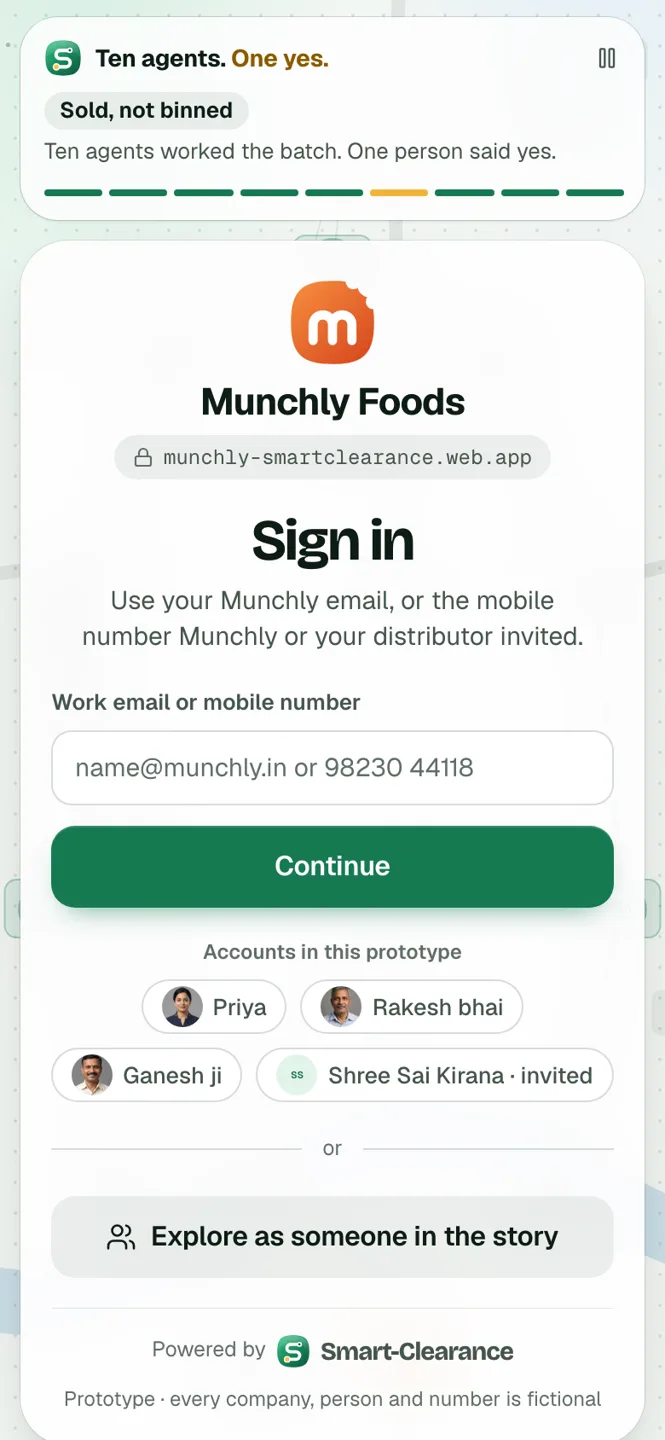
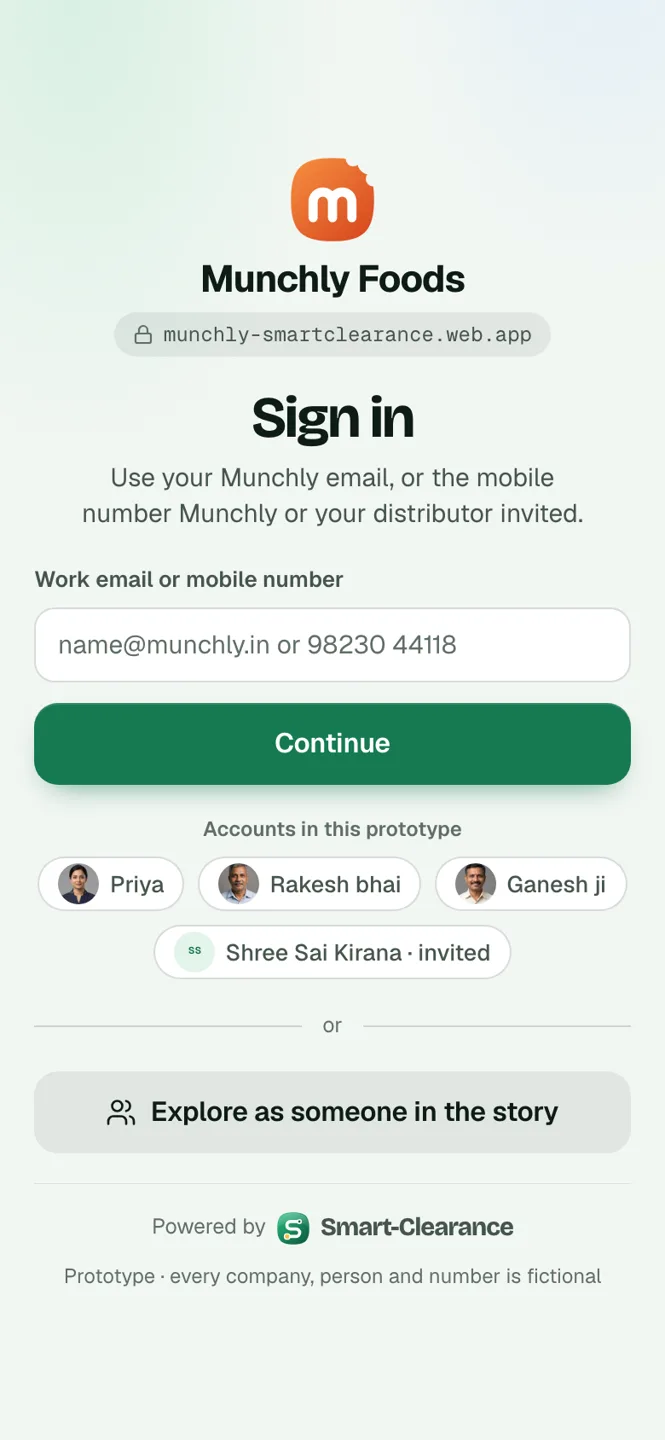
SC-198: the map ported to core's AgentStage; a phone held upright shows the form alone

diff --git a/frontend/core/src/lib/components/agents/mesh.ts b/frontend/core/src/lib/components/agents/mesh.ts
@@ -52,6 +52,10 @@ export type Field = {
 	pointer: { x: number; y: number } | null;
 	stepAt: number;
 	resetAt: number;
+	/** where the stage's orbit sits in the canvas, so the ground keeps the stage's words clear (SC-198) */
+	off?: { x: number; y: number };
+	ground?: HTMLCanvasElement;
+	groundKey?: string;
 };
 
 export const AG_STOPS: Stop[] = [
@@ -230,13 +234,143 @@ export function agThreads(stars: Star[]): Thread[] {
 }
 // the field's inks, as rgb, by day and by night (the agents' green and the yes's amber validated on the sign-in's ground)
 const AG_INK = {
-	light: { ink: '13, 28, 21', lit: '22, 122, 82', amber: '211, 154, 18', hole: '#f2f6f3' },
-	dark: { ink: '214, 255, 232', lit: '60, 203, 138', amber: '247, 192, 74', hole: '#0b110e' }
+	light: {
+		ink: '13, 28, 21',
+		lit: '22, 122, 82',
+		amber: '211, 154, 18',
+		hole: '#f2f6f3',
+		water: 'rgba(112, 166, 199, 0.3)',
+		block: 0.06,
+		post: 0.085,
+		dot: 0.11,
+		window: 0
+	},
+	dark: {
+		ink: '214, 255, 232',
+		lit: '60, 203, 138',
+		amber: '247, 192, 74',
+		hole: '#0b110e',
+		water: 'rgba(64, 92, 196, 0.32)',
+		block: 0.06,
+		post: 0.09,
+		dot: 0.09,
+		window: 0.15
+	}
 };
+type Ink = (typeof AG_INK)['light'];
 const seeded = (seed: number) => () => {
 	seed = (seed * 1664525 + 1013904223) % 4294967296;
 	return seed / 4294967296;
 };
+// the ground under the field (SC-198, the map under the agents): the guided demo's plate, a dotted grid, the town's
+// blocks in clusters, two roads and the river, seeded so every visit draws the same; drawn once a size and a theme
+const AG_DOT = 18;
+type Box = { x0: number; y0: number; x1: number; y1: number };
+function agRiver(w: number, h: number, band: boolean) {
+	const y = band ? h * 0.9 : h * 0.86,
+		pts: { x: number; y: number }[] = [];
+	for (let i = 0; i <= 48; i++) {
+		const u = i / 48;
+		pts.push({
+			x: -40 + u * (w + 80),
+			y: y + Math.sin(u * Math.PI * 2.2 + 0.6) * h * (band ? 0.03 : 0.05) - u * h * 0.04
+		});
+	}
+	return pts;
+}
+export function agGround(w: number, h: number, band: boolean, dark: boolean, stars: Star[], clear: Box[]) {
+	const I = AG_INK[dark ? 'dark' : 'light'],
+		dpr = Math.min(window.devicePixelRatio || 1, 2),
+		c = document.createElement('canvas');
+	c.width = Math.round(w * dpr);
+	c.height = Math.round(h * dpr);
+	const g = c.getContext('2d');
+	if (!g) return c;
+	g.setTransform(dpr, 0, 0, dpr, 0, 0);
+	g.fillStyle = `rgba(${I.ink}, ${I.dot})`;
+	for (let x = AG_DOT / 2; x < w; x += AG_DOT)
+		for (let y = AG_DOT / 2; y < h; y += AG_DOT) {
+			g.beginPath();
+			g.arc(x, y, 1, 0, Math.PI * 2);
+			g.fill();
+		}
+	const river = agRiver(w, h, band),
+		rw = band ? 22 : Math.max(26, Math.min(44, h * 0.045)),
+		bw = AG_DOT * 2 - 4,
+		bh = AG_DOT * 1.5;
+	const nearRiver = (x: number, y: number, pad: number) =>
+		river.some((p) => Math.hypot(p.x - x, p.y - y) < rw / 2 + pad);
+	const nearPost = (x: number, y: number) => stars.some((s) => Math.abs(s.x - x) < 52 && Math.abs(s.y - y) < 44);
+	// the stage's words keep a clear ground: no block under the head or the foot
+	const underWords = (x: number, y: number) =>
+		clear.some((r) => x + bw / 2 > r.x0 && x - bw / 2 < r.x1 && y + bh / 2 > r.y0 && y - bh / 2 < r.y1);
+	// the roads, under everything else: one across the town, one down between the stage and the card
+	g.lineCap = 'round';
+	g.strokeStyle = `rgba(${I.ink}, ${I.block * 1.3})`;
+	g.lineWidth = band ? 6 : 8;
+	g.beginPath();
+	g.moveTo(-10, h * 0.4);
+	g.bezierCurveTo(w * 0.35, h * 0.37, w * 0.65, h * 0.44, w + 10, h * 0.39);
+	g.moveTo(w * 0.6, -10);
+	g.bezierCurveTo(w * 0.58, h * 0.3, w * 0.63, h * 0.6, w * 0.6, h + 10);
+	g.stroke();
+	// the blocks: clusters of two or three a row, on the grid, kept off the river and the agents' posts
+	const rnd = seeded(198),
+		n = Math.max(6, Math.round((w * h) / (band ? 20000 : 34000)));
+	for (let i = 0; i < n; i++) {
+		const cx0 = Math.floor((rnd() * w) / AG_DOT) * AG_DOT + 4,
+			cy0 = Math.floor((rnd() * h) / AG_DOT) * AG_DOT + 4,
+			cols = 2 + Math.floor(rnd() * 2),
+			rows = 1 + Math.floor(rnd() * 2);
+		for (let a = 0; a < cols; a++)
+			for (let b = 0; b < rows; b++) {
+				if (rnd() < 0.2) continue;
+				const x = cx0 + a * (bw + 6),
+					y = cy0 + b * (bh + 6);
+				if (
+					nearRiver(x + bw / 2, y + bh / 2, 14) ||
+					nearPost(x + bw / 2, y + bh / 2) ||
+					underWords(x + bw / 2, y + bh / 2)
+				)
+					continue;
+				g.beginPath();
+				g.roundRect(x, y, bw, bh, 6);
+				// by night some blocks are lit windows
+				g.fillStyle = I.window && rnd() < 0.3 ? `rgba(${I.amber}, ${I.window})` : `rgba(${I.ink}, ${I.block})`;
+				g.fill();
+			}
+	}
+	g.strokeStyle = I.water;
+	g.lineWidth = rw;
+	g.lineJoin = 'round';
+	g.beginPath();
+	river.forEach((p, i) => (i ? g.lineTo(p.x, p.y) : g.moveTo(p.x, p.y)));
+	g.stroke();
+	return c;
+}
+// each agent's post: a block under its node, lit while it works, tinted once it has
+function agPosts(ctx: CanvasRenderingContext2D, f: Field, I: Ink) {
+	const pw = f.band ? 34 : 46,
+		ph = f.band ? 26 : 34;
+	f.stars.forEach((n) => {
+		const st = f.state(n.c),
+			col = n.c.human ? I.amber : I.lit;
+		ctx.beginPath();
+		ctx.roundRect(n.x - pw / 2, n.y - ph / 2, pw, ph, 7);
+		ctx.fillStyle =
+			st === 'now'
+				? `rgba(${col}, ${f.dark ? 0.3 : 0.24})`
+				: st === 'done'
+					? `rgba(${col}, ${f.dark ? 0.14 : 0.1})`
+					: `rgba(${I.ink}, ${I.post})`;
+		ctx.fill();
+		if (st !== 'later') {
+			ctx.lineWidth = 1;
+			ctx.strokeStyle = `rgba(${col}, ${st === 'now' ? 0.6 : 0.3})`;
+			ctx.stroke();
+		}
+	});
+}
 // the ambient field, seeded so every visit draws the same
 export function agField(w: number, h: number, band: boolean): Dot[] {
 	const rnd = seeded(195),
@@ -303,6 +437,22 @@ export function agDraw(ctx: CanvasRenderingContext2D, f: Field, now: number) {
 		all: { x: number; y: number }[] = [...f.nodes, ...stars],
 		link = band ? 70 : 120;
 	ctx.clearRect(0, 0, f.w, f.h);
+	if (f.w < 1 || f.h < 1) return;
+	const off = f.off ?? { x: 0, y: 0 },
+		clear: Box[] =
+			band || !off.y
+				? []
+				: [
+						{ x0: -1, y0: -1, x1: off.x + 620, y1: off.y - 6 },
+						{ x0: -1, y0: f.h - 76, x1: off.x + 600, y1: f.h + 1 }
+					];
+	const gk = `${f.w}x${f.h}|${f.dark}|${band}|${Math.round(off.x)},${Math.round(off.y)}|${stars.map((s) => `${Math.round(s.x)},${Math.round(s.y)}`).join(';')}`;
+	if (f.groundKey !== gk || !f.ground) {
+		f.ground = agGround(f.w, f.h, band, f.dark, stars, clear);
+		f.groundKey = gk;
+	}
+	ctx.drawImage(f.ground, 0, 0, f.w, f.h);
+	if (stars.length) agPosts(ctx, f, I);
 	ctx.lineWidth = 1;
 	for (let a = 0; a < all.length; a++)
 		for (let b = a + 1; b < all.length; b++) {

diff --git a/design3/dist/sc3-core.js b/design3/dist/sc3-core.js
@@ -1320,6 +1320,6 @@ w"},React.createElement(ie,{size:22,still:!0}),React.createElement("b",null,"Ten
 n":"true"},u.length?u.map(s=>React.createElement("span",{key:s.id,className:M("ag-who",s.human&&"human")},React.createElement("i",null,React.createElement(A,{name:s.icon,size:12,stroke:2.2})),s.name)):React.createElement("span",{className:"\
 ag-who rest"},e.k<0?"A batch the gates will refuse":"Sold, not binned"),React.createElement("span",{className:"ag-did"},i)),React.createElement("div",{className:"ag-rail",role:"toolbar","aria-label":"The nine stops",onKeyDown:E},C.map((s,d)=>React.
 createElement("button",{key:s.id,type:"button",ref:p=>R.current[d]=p,tabIndex:d===r?0:-1,"aria-label":`${s.t}: ${U(d)}`,"aria-pressed":!!e.held&&e.held.stop===d,className:M(d<m&&"done",d===m&&"now",s.human&&"human"),onFocus:()=>g(d),onClick:()=>e.
-pick(G(d)[0])},React.createElement("i",null)))),React.createElement(ce,{w:e})))}function Le({children:e,band:t}){const c=H(),a=we();return(t!=null?t:c.bp!=="desktop")?React.createElement(Ge,{w:a}):React.createElement(Oe,{w:a},e)}Object.assign(
-window.SC3,{STAGE_TIMES:X,StatusBadge:j,TrackerCompact:Q,TrackerCard:fe,BatchRow:ke,ChannelTable:ve,SplitBar:Ne,MoneyPanel:xe,DocCard:Me,AgentStage:Le})})();
+pick(G(d)[0])},React.createElement("i",null)))),React.createElement(ce,{w:e})))}function Le({children:e,band:t}){const c=H(),a=we();return t==null&&c.bp==="phone"&&c.h>c.w?null:(t!=null?t:c.bp!=="desktop")?React.createElement(Ge,{w:a}):React.
+createElement(Oe,{w:a},e)}Object.assign(window.SC3,{STAGE_TIMES:X,StatusBadge:j,TrackerCompact:Q,TrackerCard:fe,BatchRow:ke,ChannelTable:ve,SplitBar:Ne,MoneyPanel:xe,DocCard:Me,AgentStage:Le})})();
 

diff --git a/frontend/core/tests/agents.test.ts b/frontend/core/tests/agents.test.ts
@@ -71,8 +71,8 @@ describe('the stage', () => {
 			flushSync();
 		}
 	};
-	const show = (width = 1440) => {
-		const r = render(GoldenHost, { props: { component: AgentStage, props: {}, width } });
+	const show = (width = 1440, height = 900) => {
+		const r = render(GoldenHost, { props: { component: AgentStage, props: {}, width, height } });
 		flushSync();
 		return r;
 	};
@@ -107,8 +107,13 @@ describe('the stage', () => {
 		flushSync();
 		expect(getByRole('button', { name: 'Play the agents' })).toBeTruthy();
 	});
+	it('leaves a phone held upright to the form alone (SC-198)', () => {
+		const { container } = show(390, 844);
+		expect(container.querySelector('.ag-field, .ag-pill, .ag-stage, .ag-around')).toBeNull();
+	});
 	it('stands round the card below desktops: a pill with Pause, the stops as a rail, the agents hidden from a reader (SC-196)', async () => {
-		const { container, getByRole, getAllByRole } = show(390);
+		// a phone held sideways keeps them round the card
+		const { container, getByRole, getAllByRole } = show(700, 390);
 		expect(container.querySelector('.ag-pill')).toBeTruthy();
 		expect(container.querySelector('.ag-stage')).toBeNull();
 		expect(container.querySelector('.ag-around')!.getAttribute('aria-hidden')).toBe('true');

diff --git a/frontend/core/src/lib/components/AgentStage.svelte b/frontend/core/src/lib/components/AgentStage.svelte
@@ -111,6 +111,8 @@
 	};
 
 	const isBand = $derived(band ?? app.bp !== 'desktop');
+	// none on a phone held upright (SC-198): too tight to see the agents at work, so the sign-in is the form alone
+	const none = $derived(band == null && app.bp === 'phone' && app.h > app.w);
 	let ow = $state(0);
 	let oh = $state(0);
 	const stars: Star[] = $derived(ow && oh && !isBand ? agOrbit(ow, oh, false) : []);
@@ -187,7 +189,9 @@
 	<p class="sr-only" role="status">{held ? `${held.name}, ${AG_STOPS[held.stop].t}: ${held.did}.` : ''}</p>
 {/snippet}
 
-{#if isBand}
+{#if none}
+	<!-- a phone held upright: the form alone -->
+{:else if isBand}
 	<AgentAround {walk} {play} {words} />
 {:else}
 	<AgentField {walk} {stars} {orbit} {height} />

diff --git a/design3/system/product.jsx b/design3/system/product.jsx
@@ -531,9 +531,11 @@
       </div>
     </Fragment>;
   }
-  // the stage: SC-195's on a desktop, the agents around the card below it (band: the one below desktops, whatever the size)
+  // the stage: SC-195's on a desktop, the agents around the card below it (band: the one below desktops, whatever the size);
+  // none on a phone held upright (SC-198): too tight to see the agents at work, so the sign-in is the form alone
   function AgentStage({ children, band }) {
     const app = useApp(); const w = useAgentWalk();
+    if (band == null && app.bp === "phone" && app.h > app.w) return null;
     return (band != null ? band : app.bp !== "desktop") ? <AgentAround w={w} /> : <AgentDesk w={w}>{children}</AgentDesk>;
   }
 

diff --git a/frontend/core/tests/fixtures/GoldenHost.svelte b/frontend/core/tests/fixtures/GoldenHost.svelte
@@ -13,15 +13,17 @@
 		component: Component<any>;
 		props?: Record<string, unknown>;
 		width?: number;
+		height?: number;
 		/** route the component reads, when it reads one */
 		route?: string;
 	};
-	let { component: C, props = {}, width = 1440, route = 'command' }: Props = $props();
+	let { component: C, props = {}, width = 1440, height = 900, route = 'command' }: Props = $props();
 
 	const app = new AppState({ embedded: true });
 	// svelte-ignore state_referenced_locally (each render is one width)
 	app.w = width;
-	app.h = 900;
+	// svelte-ignore state_referenced_locally (each render is one height)
+	app.h = height;
 	provideApp(app);
 	provideTheme(new Theme('light'));
 	const noop = () => {};

diff --git a/design3/system/product.js b/design3/system/product.js
@@ -610,6 +610,7 @@
   function AgentStage({ children, band }) {
     const app = useApp();
     const w = useAgentWalk();
+    if (band == null && app.bp === "phone" && app.h > app.w) return null;
     return (band != null ? band : app.bp !== "desktop") ? /* @__PURE__ */ React.createElement(AgentAround, { w }) : /* @__PURE__ */ React.createElement(AgentDesk, { w }, children);
   }
   Object.assign(window.SC3, { STAGE_TIMES, StatusBadge, TrackerCompact, TrackerCard, BatchRow, ChannelTable, SplitBar, MoneyPanel, DocCard, AgentStage });

diff --git a/design3/designs/SC-198/decision.md b/design3/designs/SC-198/decision.md
@@ -31,7 +31,11 @@ seen on the real sign-ins before the port.
   ink at 10 to 14% once it has worked, at 24 to 30% with a rim while it works (amber for the yes).
 - **Clear ground for the words:** no block under the stage's head or its foot (Pause and the hint), nor on the river or
   round a post. Every ink is the field's own ink at low alpha, so the text keeps the contrast it had.
-- **Below desktops** the same ground sits behind the agents around the card (SC-196), denser for the smaller box.
+- **Tablets, and phones held sideways,** keep the agents around the card (SC-196), on the same ground, denser for
+  the smaller box.
+- **A phone held upright shows the form alone** (the maintainer, after seeing it: "for mobile portrait mode, make it like
+  before cause no animation can be seen in such tight space"). The stage draws nothing there (a phone breakpoint, taller
+  than wide), so the card sits on the sign-in's own ground, as before SC-195.
 - Motion is unchanged: the ground never moves; the posts follow the walk, under its Pause and Play, and rest on the
   result under reduced motion.
 
